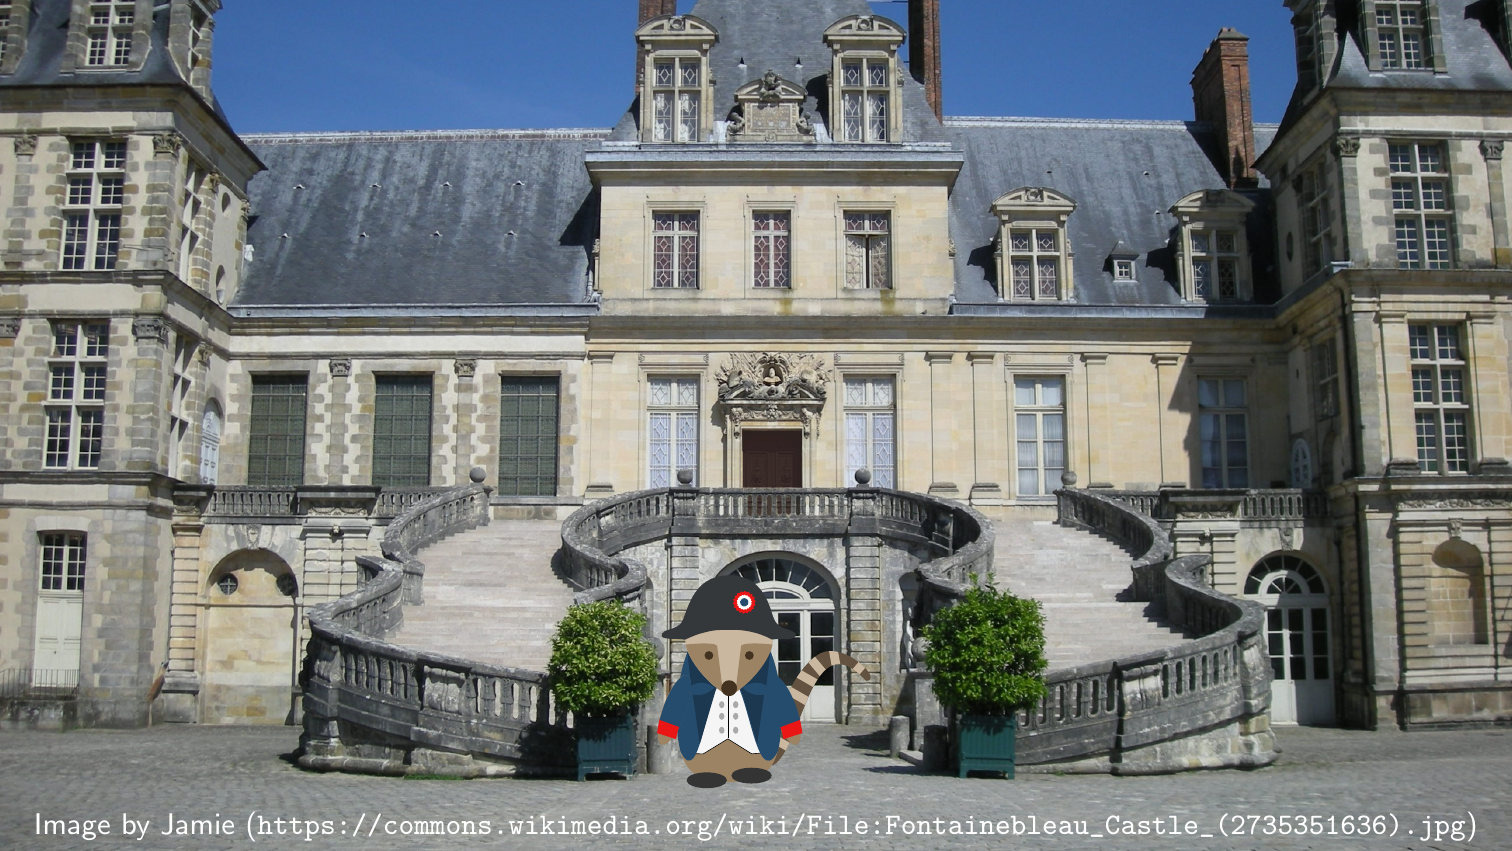
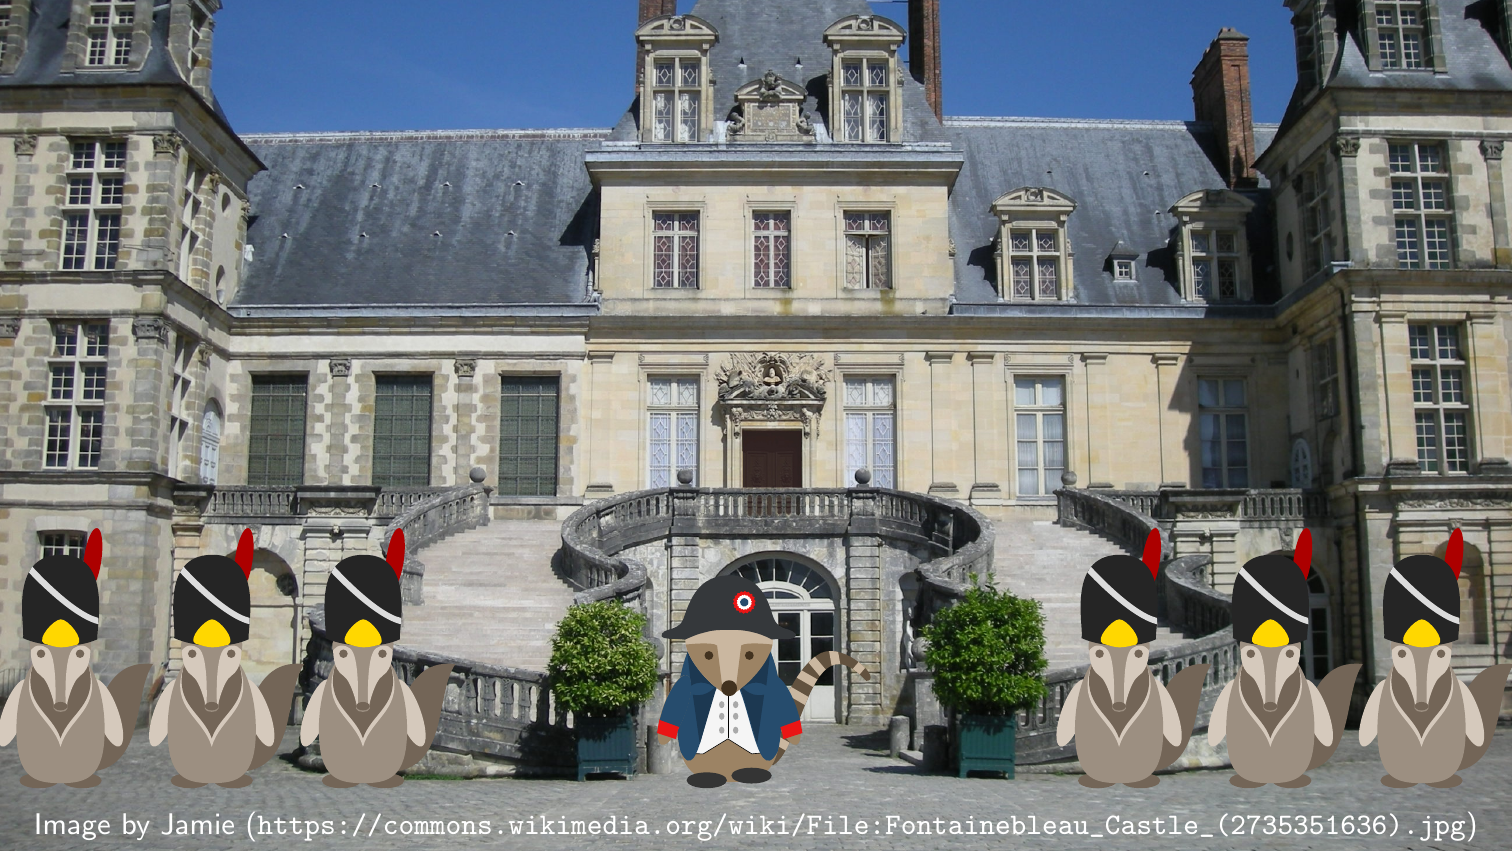
Adding Napoleon's guards

Changed region(s): [[0.0, 0.611, 0.3108, 0.9471], [0.6839, 0.611, 1.0, 0.9471]]

diff --git a/samcarter/Napoleon/Napoleon.tex b/samcarter/Napoleon/Napoleon.tex
@@ -32,6 +32,14 @@
     \node at (0.52,0.45) {\includegraphics[width=1cm]{Napoleon_both}};
     
     \node at (current page.center) {\includegraphics[width=\paperwidth]{Ballustrade}};
+    
+    \node at (0.05,0.22) {\includegraphics[width=2cm]{guard}};
+    \node at (0.15,0.22) {\includegraphics[width=2cm]{guard}};
+    \node at (0.25,0.22) {\includegraphics[width=2cm]{guard}};
+    
+    \node at (0.75,0.22) {\includegraphics[width=2cm]{guard}};
+    \node at (0.85,0.22) {\includegraphics[width=2cm]{guard}};
+    \node at (0.95,0.22) {\includegraphics[width=2cm]{guard}};    
 
     % credit for background image
     \node[white,text width=\paperwidth,font=\footnotesize,align=center] at ([yshift=0.25cm]current page.south) {Image by Jamie (\url{https://commons.wikimedia.org/wiki/File:Fontainebleau_Castle_(2735351636).jpg})};  
@@ -63,8 +71,15 @@
     % some movement
     \path[postaction=decorate] (0.52,0.45) -- (0.4,0.45) -- (0.32,0.35) -- (0.34,0.32) -- (0.3,0.26) -- (0.6,0.17);
 
-    
     \node at (current page.center) {\includegraphics[width=\paperwidth]{Ballustrade}};
+
+    \node at (0.05,0.22) {\includegraphics[width=2cm]{guard}};
+    \node at (0.15,0.22) {\includegraphics[width=2cm]{guard}};
+    \node at (0.25,0.22) {\includegraphics[width=2cm]{guard}};
+    
+    \node at (0.75,0.22) {\includegraphics[width=2cm]{guard}};
+    \node at (0.85,0.22) {\includegraphics[width=2cm]{guard}};
+    \node at (0.95,0.22) {\includegraphics[width=2cm]{guard}};    
 
     % credit for background image
     \node[white,text width=\paperwidth,font=\footnotesize,align=center] at ([yshift=0.25cm]current page.south) {Image by Jamie (\url{https://commons.wikimedia.org/wiki/File:Fontainebleau_Castle_(2735351636).jpg})};  
@@ -85,6 +100,14 @@
     \node at (0.6,0.17) {\includegraphics[width=2.5cm]{Napoleon_both}};
     
     \node at (current page.center) {\includegraphics[width=\paperwidth]{Ballustrade}};
+    
+    \node at (0.05,0.22) {\includegraphics[width=2cm]{guard}};
+    \node at (0.15,0.22) {\includegraphics[width=2cm]{guard}};
+    \node at (0.25,0.22) {\includegraphics[width=2cm]{guard}};
+    
+    \node at (0.75,0.22) {\includegraphics[width=2cm]{guard}};
+    \node at (0.85,0.22) {\includegraphics[width=2cm]{guard}};
+    \node at (0.95,0.22) {\includegraphics[width=2cm]{guard}}; 
 
     % credit for background image
     \node[white,text width=\paperwidth,font=\footnotesize,align=center] at ([yshift=0.25cm]current page.south) {Image by Jamie (\url{https://commons.wikimedia.org/wiki/File:Fontainebleau_Castle_(2735351636).jpg})};  
